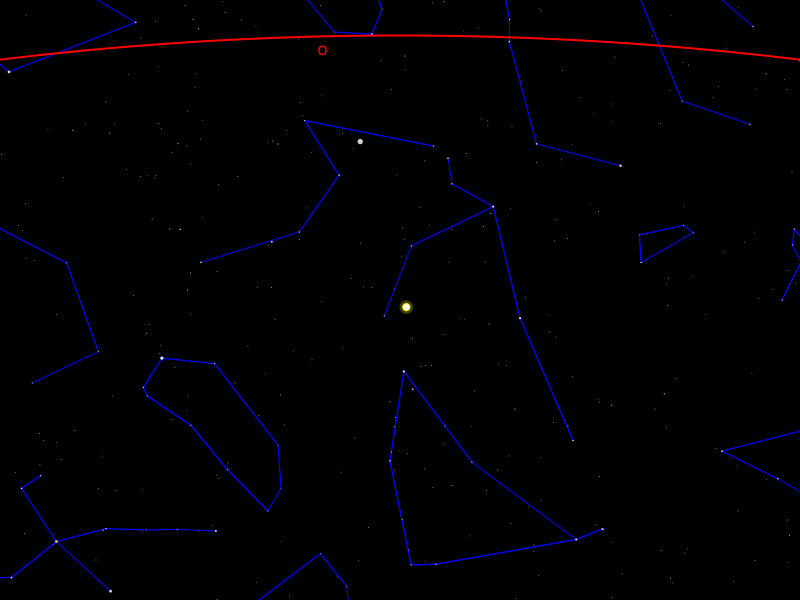
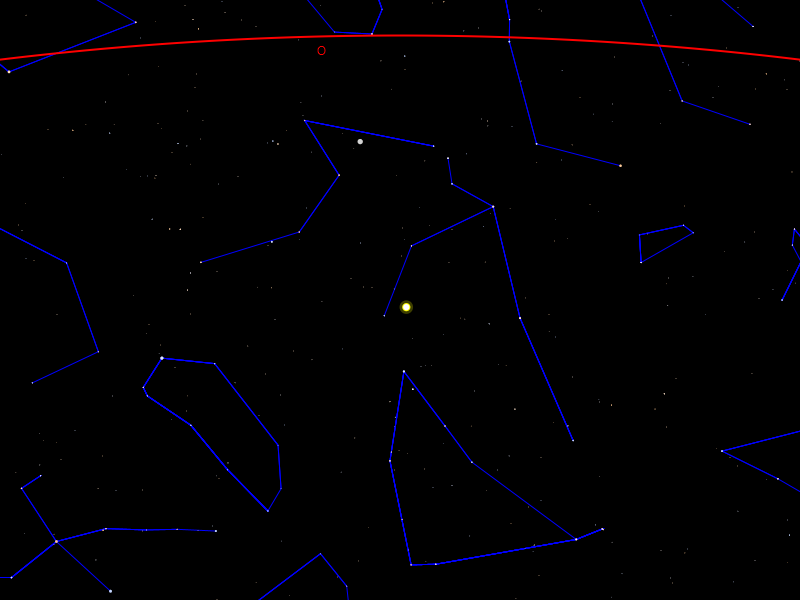
étape 9 améliorations

Changed region(s): [[0.5938, 0.33, 0.625, 0.36], [0.5, 0.63, 0.5312, 0.66]]

diff --git a/src/ch/epfl/rigel/gui/SkyCanvasPainter.java b/src/ch/epfl/rigel/gui/SkyCanvasPainter.java
@@ -42,36 +42,33 @@ public final class SkyCanvasPainter {
         ctx.fillRect(0, 0, canvas.getWidth(), canvas.getHeight());
     }
 
-    public void drawAsterism(ObservedSky sky, Transform planeToCanvas) {
+    public void drawStars(ObservedSky sky, StereographicProjection projection, Transform planeToCanvas) {
         ctx.setStroke(BLUE);
         ctx.setLineWidth(1);
-        double[] skyCoordinates = sky.starPositions();
+        Star[] stars = sky.stars().toArray(Star[]::new);
+        double[] coordinates = sky.starPositions();
+        planeToCanvas.transform2DPoints(coordinates, 0, coordinates, 0, coordinates.length/2);
+        Asterism[] asterisms = sky.asterism().toArray(Asterism[]::new);
         boolean isInBounds = false;
         Bounds canvasBounds = canvas.getBoundsInLocal();
-        for (Asterism a : sky.asterism()) {
+        for (Asterism a : asterisms) {
             ctx.beginPath();
             int[] indices = sky.asterismIndices(a).stream()
                                                   .mapToInt(Integer :: intValue)
                                                   .toArray();
-            for (Integer index : indices) {
-                Point2D coordinates = planeToCanvas.transform(skyCoordinates[2*index], skyCoordinates[2*index + 1]);
-                ctx.lineTo(coordinates.getX(), coordinates.getY());
-                if (canvasBounds.contains(coordinates.getX(), coordinates.getY()) || isInBounds) {
+            for (Integer i : indices) {
+                double x = coordinates[2*i];
+                double y = coordinates[2*i + 1];
+                ctx.lineTo(x, y);
+                if (canvasBounds.contains(x, y) || isInBounds) {
                     ctx.stroke();
                 }
-                isInBounds = (canvasBounds.contains(coordinates.getX(), coordinates.getY()));
+                isInBounds = (canvasBounds.contains(x, y));
             }
         }
-    }
-
-    public void drawStars(ObservedSky sky, StereographicProjection projection, Transform planeToCanvas) {
-        double[] coordinates = sky.starPositions();
-        planeToCanvas.transform2DPoints(coordinates, 0, coordinates, 0, coordinates.length/2);
-        Star[] stars = sky.stars().toArray(Star[]::new);
         for (int i=0; i<stars.length; ++i) {
             double diameter = size(stars[i].magnitude(), projection);
-            Point2D transform = planeToCanvas.deltaTransform(diameter, 0);
-            double trueDiameter = Math.abs(transform.getX());
+            double trueDiameter = planeToCanvas.deltaTransform(diameter, 0).magnitude();
             ctx.setFill(BlackBodyColor.colorForTemperature(stars[i].colorTemperature()));
             ctx.fillOval(coordinates[2*i]-trueDiameter/2, coordinates[2*i+1]-trueDiameter/2, trueDiameter, trueDiameter);
         }
@@ -83,9 +80,8 @@ public final class SkyCanvasPainter {
         planeToCanvas.transform2DPoints(coordinates, 0, coordinates, 0, coordinates.length / 2);
         Planet[] planets = sky.planets().toArray(Planet[]::new);
         for (int i=0; i<planets.length; ++i) {
-            final double diameter = size(planets[i].magnitude(), projection);
-            Point2D transform = planeToCanvas.deltaTransform(diameter, 0);
-            double trueDiameter = Math.abs(transform.getX());
+            double diameter = size(planets[i].magnitude(), projection);
+            double trueDiameter = planeToCanvas.deltaTransform(diameter, 0).magnitude();
             ctx.fillOval(coordinates[2*i]-trueDiameter/2, coordinates[2*i+1]-trueDiameter/2, trueDiameter, trueDiameter);
         }
     }
@@ -93,9 +89,8 @@ public final class SkyCanvasPainter {
     public void drawSun(ObservedSky sky, StereographicProjection projection, Transform planeToCanvas) {
         CartesianCoordinates position = sky.sunPosition();
         Point2D coordinates = planeToCanvas.transform(position.x(), position.y());
-        final double diameter = projection.applyToAngle(sky.sun().angularSize());
-        Point2D transform = planeToCanvas.deltaTransform(diameter, 0);
-        double trueDiameter = Math.abs(transform.getX());
+        double diameter = projection.applyToAngle(sky.sun().angularSize());
+        double trueDiameter = planeToCanvas.deltaTransform(diameter, 0).magnitude();
         ctx.setFill(OPAQUE_YELLOW);
         ctx.fillOval(coordinates.getX()-2.2*trueDiameter/2, coordinates.getY()-2.2*trueDiameter/2, 2.2*trueDiameter, 2.2*trueDiameter);
         ctx.setFill(YELLOW);
@@ -108,9 +103,8 @@ public final class SkyCanvasPainter {
         ctx.setFill(WHITE);
         CartesianCoordinates position = sky.moonPosition();
         Point2D coordinates = planeToCanvas.transform(position.x(), position.y());
-        final double diameter = projection.applyToAngle(sky.moon().angularSize());
-        Point2D transform = planeToCanvas.deltaTransform(diameter, 0);
-        double trueDiameter = Math.abs(transform.getX());
+        double diameter = projection.applyToAngle(sky.moon().angularSize());
+        double trueDiameter = planeToCanvas.deltaTransform(diameter, 0).magnitude();
         ctx.fillOval(coordinates.getX()-trueDiameter/2, coordinates.getY()-trueDiameter/2, trueDiameter, trueDiameter);
     }
 
@@ -120,8 +114,7 @@ public final class SkyCanvasPainter {
         CartesianCoordinates center = projection.circleCenterForParallel(HorizontalCoordinates.of(0, 0));
         Point2D coordinates = planeToCanvas.transform(center.x(), center.y());
         double diameter = 2 * projection.circleRadiusForParallel(HorizontalCoordinates.of(0, 0));
-        Point2D point = planeToCanvas.deltaTransform(diameter, 0);
-        double trueDiameter = Math.abs(point.getX());
+        double trueDiameter = planeToCanvas.deltaTransform(diameter, 0).magnitude();
         ctx.strokeOval(coordinates.getX()-trueDiameter/2, coordinates.getY()-trueDiameter/2, trueDiameter, trueDiameter);
         drawCardinalPoints(projection, planeToCanvas);
     }
